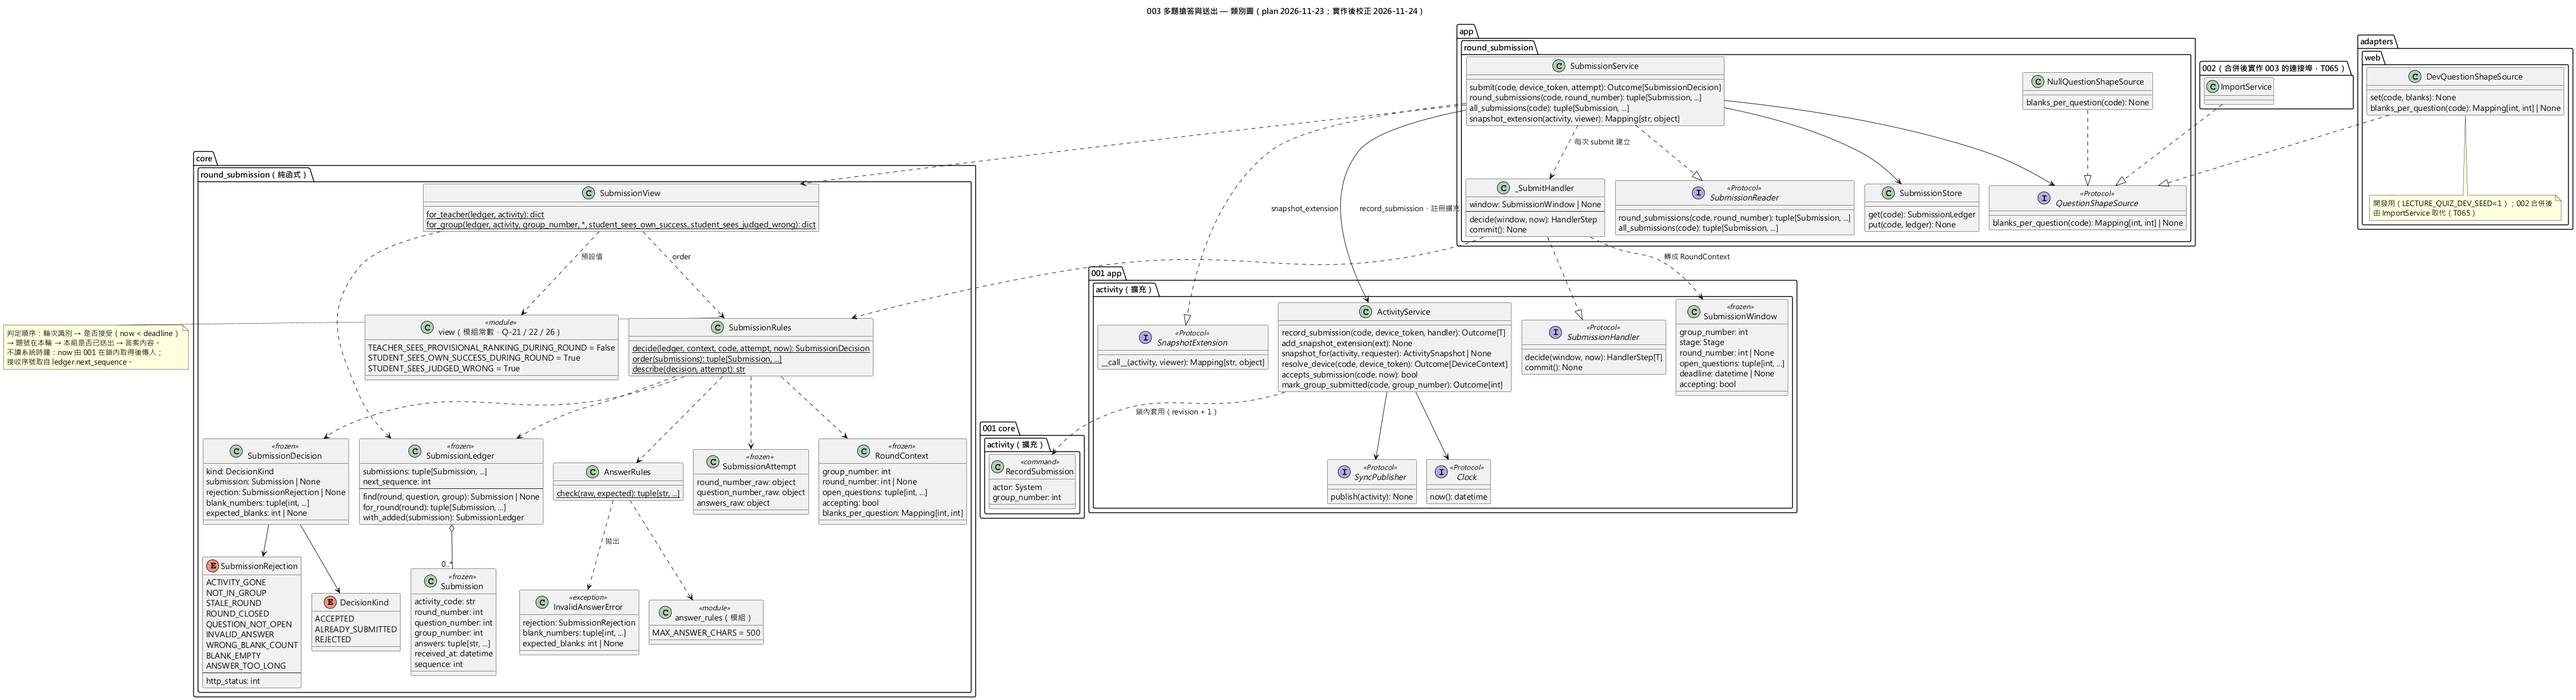
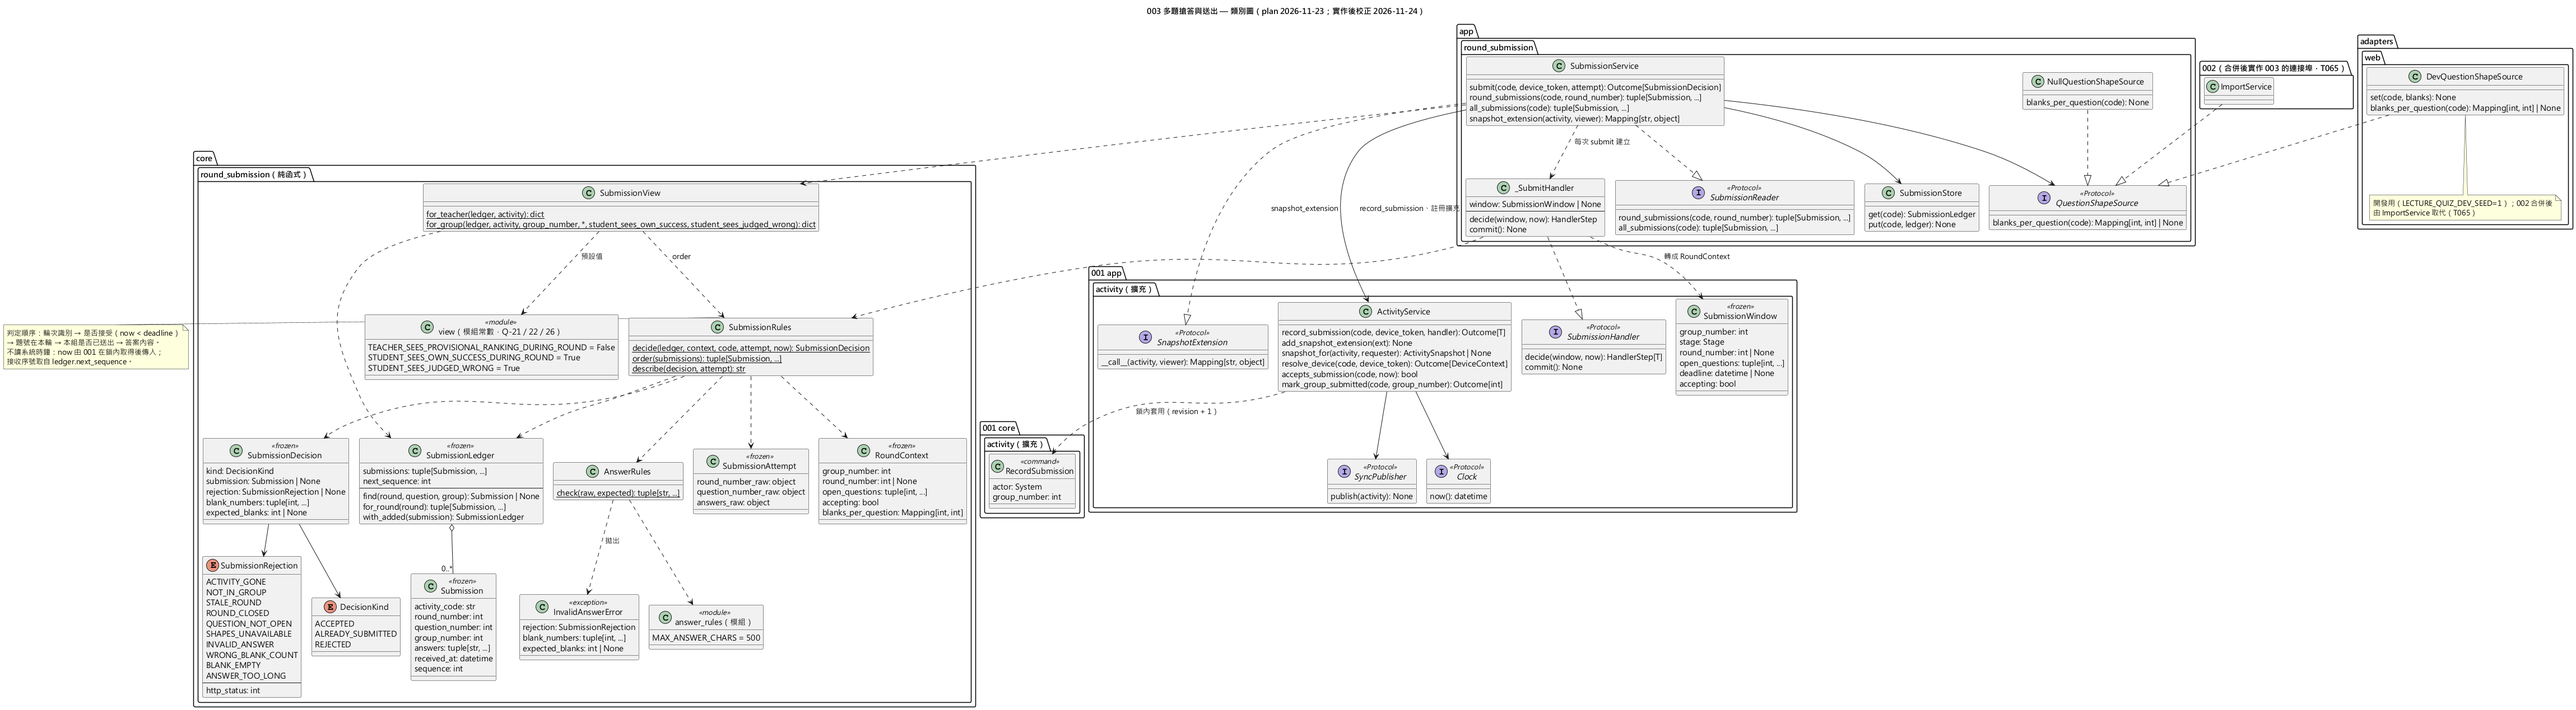
fix: 003 依 PR #16 審查修正學生頁語法錯誤、缺格數訊息與送出狀態
- round-submission.js：submitAnswer 重複宣告 code 造成整支模組不執行，改名 errorCode
  （先前 node --check 對含 import 的 .js 誤回 0；新增以 .mjs 副本檢查的自動測試）
- 缺格數提示每題一則、載入後移除
- 新增 SHAPES_UNAVAILABLE（503、記 WARNING），不再誤報「不在本輪」
- 送出途中截止時不重新啟用已停用的按鈕
- 契約註明 judgedWrong 為 004 前的佔位值、格數來源必須非阻塞
- verification：P-30～P-35

diff --git a/src/lecture_quiz/adapters/static/js/round-submission.js b/src/lecture_quiz/adapters/static/js/round-submission.js
@@ -11,6 +11,7 @@ import { describeSubmitError, el, renderAnswerForm, renderPublished } from "./su
 
 const $ = (id) => document.getElementById(id);
 const forms = new Map(); // key：`${roundNumber}:${questionNumber}`，保留學生已輸入的內容
+const notices = new Map(); // 同一個 key：「格數尚未載入」提示，每題只顯示一則
 let currentRound = null;
 let deadlineTimer = null;
 let scheduledDeadline;
@@ -29,13 +30,13 @@ async function submitAnswer(roundNumber, questionNumber, answers, form) {
     form.showSubmitted(result.data.submission, already ? "本組已送出" : "已送出");
     return;
   }
-  const code = result.error?.code;
-  if (code === "STALE_ROUND") {
+  const errorCode = result.error?.code;
+  if (errorCode === "STALE_ROUND") {
     // 舊頁面：提示並提供重新整理（US3-AS4）
     form.showError(result.error.message, { label: "重新整理", onClick: () => window.location.reload() });
     return;
   }
-  if (code === "ROUND_CLOSED") {
+  if (errorCode === "ROUND_CLOSED") {
     // 已截止或已關輪：停用全部作答表單（US3-AS2、US3-AS3）
     for (const other of forms.values()) if (!other.submitted) other.setDisabled(true);
   }
@@ -84,6 +85,7 @@ function render(snapshot) {
   }
   if (currentRound !== snapshot.roundNumber) {
     forms.clear();
+    notices.clear();
     list.replaceChildren();
     currentRound = snapshot.roundNumber;
   }
@@ -93,8 +95,17 @@ function render(snapshot) {
     if (forms.has(key)) continue;
     const blanks = Number(shapes[String(questionNumber)] ?? 0);
     if (!blanks) {
-      list.append(el("p", `第 ${questionNumber} 題的格數尚未載入，請重新整理。`, "error-message"));
+      // 每次推送都會重畫：提示只建立一次，避免累加（PR #16 審查第 2 項）
+      if (!notices.has(key)) {
+        const notice = el("p", `第 ${questionNumber} 題的格數尚未載入，請稍後或重新整理。`, "error-message");
+        notices.set(key, notice);
+        list.append(notice);
+      }
       continue;
+    }
+    if (notices.has(key)) {
+      notices.get(key).remove();
+      notices.delete(key);
     }
     const roundNumber = snapshot.roundNumber;
     const form = renderAnswerForm({

diff --git a/src/lecture_quiz/adapters/static/js/submission.js b/src/lecture_quiz/adapters/static/js/submission.js
@@ -64,7 +64,11 @@ export function renderAnswerForm({ questionNumber, blanks, onSubmit }) {
     onSubmit(inputs.map((input) => input.value));
   });
 
+  // 已送出或被停用（截止、關輪）後為真；送出中結束時不能把按鈕重新啟用（PR #16 審查第 4 項）
+  let locked = false;
+
   function lock() {
+    locked = true;
     for (const input of inputs) input.disabled = true;
     button.hidden = true;
   }
@@ -72,13 +76,14 @@ export function renderAnswerForm({ questionNumber, blanks, onSubmit }) {
   return {
     element: form,
     setBusy(busy) {
-      button.disabled = busy;
+      button.disabled = busy || locked;
       if (busy) {
         status.textContent = "送出中…";
         status.className = "submit-status";
       }
     },
     setDisabled(disabled) {
+      locked = disabled;
       button.disabled = disabled;
       for (const input of inputs) input.disabled = disabled;
     },

diff --git a/tests/architecture/test_static_text_safety.py b/tests/architecture/test_static_text_safety.py
@@ -10,6 +10,8 @@
 """
 
 import re
+import shutil
+import subprocess
 from pathlib import Path
 
 import pytest
@@ -101,3 +103,42 @@ def test_network_error_is_reported_as_unconfirmed():
     body = source[start:end]
     assert "NETWORK_ERROR" in body
     assert "送出結果未確認，請重試" in body
+
+
+@pytest.mark.parametrize("name", sorted(p.name for p in JS_DIR.glob("*.js")))
+def test_javascript_parses(name, tmp_path):
+    """每支前端模組都能被解析（PR #16 審查第 1 項：重複宣告讓整支模組不執行）。
+
+    以 `.mjs` 副本檢查：Node 22 以後對含 `import` 的 `.js` 執行 `node --check`，
+    即使有語法錯誤也可能回傳 0（模組自動偵測），所以必須明確當成 ES module。
+    """
+    node = shutil.which("node")
+    if node is None:
+        pytest.skip("找不到 node，無法檢查 JavaScript 語法")
+    copy = tmp_path / (Path(name).stem + ".mjs")
+    copy.write_text((JS_DIR / name).read_text(encoding="utf-8"), encoding="utf-8")
+    result = subprocess.run(
+        [node, "--check", str(copy)],
+        capture_output=True,
+        text=True,
+        encoding="utf-8",
+        check=False,
+    )
+    assert result.returncode == 0, result.stderr
+
+
+def test_busy_state_does_not_reenable_locked_form():
+    """PR #16 審查第 4 項：送出途中倒數歸零，送出結束後按鈕仍維持停用。"""
+    source = _source("submission.js")
+    start, end = _function(source, "setBusy")
+    body = source[start:end]
+    assert "button.disabled = busy;" not in body
+    assert "locked" in body
+
+
+def test_missing_shape_notice_is_not_duplicated():
+    """PR #16 審查第 2 項：缺格數的提示每題只有一則，格數載入後移除。"""
+    source = _source("round-submission.js")
+    start, end = _function(source, "render")
+    body = source[start:end]
+    assert "notices.has(key)" in body and "notices.delete(key)" in body

diff --git a/src/lecture_quiz/core/round_submission/rules.py b/src/lecture_quiz/core/round_submission/rules.py
@@ -80,13 +80,13 @@ class SubmissionRules:
         if not context.accepting:
             return _reject(SubmissionRejection.ROUND_CLOSED)
         question = attempt.question_number_raw
-        if (
-            not _is_int(question)
-            or question not in context.open_questions
-            or question not in context.blanks_per_question
-        ):
+        # 步驟 3：題號在本輪開放；開放題查不到格數另回 SHAPES_UNAVAILABLE（PR #16 審查）
+        if not _is_int(question) or question not in context.open_questions:
             return _reject(SubmissionRejection.QUESTION_NOT_OPEN)
         assert isinstance(question, int)
+        if question not in context.blanks_per_question:
+            # 開放題卻查不到格數：尚未匯入或 002／001 資料不一致，不是學生的錯
+            return _reject(SubmissionRejection.SHAPES_UNAVAILABLE)
         # 步驟 4：本組本輪本題已有提交時一律回本組已送出，不看內容（FR-007、FR-009）
         existing = ledger.find(context.round_number, question, context.group_number)
         if existing is not None:
@@ -159,4 +159,7 @@ _MESSAGES = {
     SubmissionRejection.STALE_ROUND: "輪次已更新，請重新整理後再作答。",
     SubmissionRejection.ROUND_CLOSED: "本輪已結束（或尚未開始），不能再送出。",
     SubmissionRejection.INVALID_ANSWER: "答案格式不正確，請重新整理後再作答。",
+    SubmissionRejection.SHAPES_UNAVAILABLE: (
+        "這一題的格數尚未載入，暫時無法送出；請稍後再試，或請老師確認已匯入學習單。"
+    ),
 }

diff --git a/tests/unit/core/round_submission/test_decide_us1.py b/tests/unit/core/round_submission/test_decide_us1.py
@@ -59,13 +59,22 @@ def test_question_not_open_or_unknown():
         assert decision.submission is None
 
 
-def test_open_question_without_shape_is_not_open():
-    decision = _decide(
-        SubmissionLedger(),
-        make_attempt(5, ("戊",)),
-        open_questions=(1, 5),
-    )
-    assert decision.rejection is SubmissionRejection.QUESTION_NOT_OPEN
+def test_open_question_without_shape_reports_shapes_unavailable():
+    """開放題查不到格數時不能說「不在本輪」（PR #16 審查第 3 項）。
+
+    例如尚未匯入，或 002 與 001 的題目資料不一致。
+    """
+    for blanks in ({1: 2}, {}):
+        attempt = make_attempt(5, ("戊",))
+        decision = _decide(
+            SubmissionLedger(), attempt, open_questions=(1, 5), blanks=blanks
+        )
+        assert decision.rejection is SubmissionRejection.SHAPES_UNAVAILABLE
+        assert SubmissionRejection.SHAPES_UNAVAILABLE.http_status == 503
+        message = SubmissionRules.describe(decision, attempt)
+        assert "格數尚未載入" in message and "不在本輪" not in message
+    not_open = _decide(SubmissionLedger(), make_attempt(9, ("戊",)), blanks={})
+    assert not_open.rejection is SubmissionRejection.QUESTION_NOT_OPEN
 
 
 def test_rejected_attempt_does_not_consume_chance():

diff --git a/tests/contract/test_http_submissions.py b/tests/contract/test_http_submissions.py
@@ -163,3 +163,24 @@ def test_stale_round_and_closed_are_409(client, opened):
     assert closed.json()["error"]["code"] == "ROUND_CLOSED"
     assert "本輪已結束" in closed.json()["error"]["message"]
     _assert_safe(closed, devices[1], teacher.token)
+
+
+def test_missing_shapes_return_503_not_question_not_open(client):
+    """沒有格數資料時回 503 SHAPES_UNAVAILABLE（PR #16 審查第 3 項）。
+
+    例如尚未匯入，或 002 的格數來源尚未接上。
+    """
+    teacher = create_activity(client)
+    seed_questions(client, teacher, 4)  # 只有題號、沒有格數
+    client.post(
+        f"/api/activities/{teacher.code}/open-joining", json={}, headers=teacher.headers
+    )
+    device = join_group(client, teacher.code, 1)
+    client.post(
+        f"/api/activities/{teacher.code}/rounds", json={}, headers=teacher.headers
+    )
+    response = submit(client, teacher.code, device, 1, 1, ["甲"])
+    assert response.status_code == 503
+    error = response.json()["error"]
+    assert error["code"] == "SHAPES_UNAVAILABLE"
+    assert "格數尚未載入" in error["message"]

diff --git a/src/lecture_quiz/core/round_submission/models.py b/src/lecture_quiz/core/round_submission/models.py
@@ -150,6 +150,7 @@ class SubmissionRejection(StrEnum):
     STALE_ROUND = "STALE_ROUND"
     ROUND_CLOSED = "ROUND_CLOSED"
     QUESTION_NOT_OPEN = "QUESTION_NOT_OPEN"
+    SHAPES_UNAVAILABLE = "SHAPES_UNAVAILABLE"
     INVALID_ANSWER = "INVALID_ANSWER"
     WRONG_BLANK_COUNT = "WRONG_BLANK_COUNT"
     BLANK_EMPTY = "BLANK_EMPTY"
@@ -167,6 +168,7 @@ _HTTP_STATUS = {
     SubmissionRejection.STALE_ROUND: 409,
     SubmissionRejection.ROUND_CLOSED: 409,
     SubmissionRejection.QUESTION_NOT_OPEN: 400,
+    SubmissionRejection.SHAPES_UNAVAILABLE: 503,
     SubmissionRejection.INVALID_ANSWER: 400,
     SubmissionRejection.WRONG_BLANK_COUNT: 400,
     SubmissionRejection.BLANK_EMPTY: 400,

diff --git a/src/lecture_quiz/app/round_submission/service.py b/src/lecture_quiz/app/round_submission/service.py
@@ -194,7 +194,13 @@ class SubmissionService:
             if isinstance(raw, int) and not isinstance(raw, bool) and 0 < raw < 10000
             else "-"
         )
-        logger.info(
+        # 開放題查不到格數代表 002／001 資料不一致或尚未接上格數來源（研究 R6）
+        log = (
+            logger.warning
+            if decision.rejection is SubmissionRejection.SHAPES_UNAVAILABLE
+            else logger.info
+        )
+        log(
             "提交 activity=%s round=%s question=%s group=%s result=%s",
             code,
             window.round_number if window and window.round_number else "-",

diff --git a/specs/003-round-submission/verification.md b/specs/003-round-submission/verification.md
@@ -146,6 +146,29 @@
 - T064：非實作者 EricC430 依 quickstart 人工驗證。
 - T065：002 合併後的真實路徑驗證（P-19）。
 
+## PR #16 審查修正（2026-11-24，EricC430 審查）
+
+- **先寫測試並確認失敗**：新增的 6 個測試在修正前 5 個失敗。
+  - `round-submission.js` 語法檢查
+  - 送出中不重新啟用已鎖定的按鈕
+  - 缺格數提示不重複
+  - 核心判定 `SHAPES_UNAVAILABLE`
+  - HTTP 503
+- **修正**：
+  - `round-submission.js` 的重複宣告改名為 `errorCode`（P-30）。
+  - 缺格數提示改為每題一則，格數載入後移除（P-31）。
+  - 新增 `SHAPES_UNAVAILABLE`，回 503 並記 WARNING（P-32）。
+  - 表單送出中結束時，若已截止或已送出就不重新啟用（P-33）。
+  - `judgedWrong` 佔位值寫進同步契約（P-34）。
+  - 格數來源必須非阻塞，`None` 與缺題的處理寫進研究 R6 與契約（P-35）。
+- **新增自動檢查**：`tests/architecture/test_static_text_safety.py::test_javascript_parses` 以 `.mjs` 副本對每支前端模組執行 `node --check`。
+
+| 指令 | 結果 |
+|---|---|
+| `ruff check --no-cache .`、`ruff format --check --no-cache .` | All checks passed! |
+| `mypy` | Success: no issues found in 36 source files |
+| `pytest` | **547 passed**, 2 deselected |
+
 ## 實作問題紀錄
 
 實作 003 過程中發現的問題、偏離與待辦，依發現順序編號。狀態：**已處理**（已改程式或文件）、**已記錄**（行為不變，只需知道）、**待辦**（之後的任務要處理）、**待決定**（需要組員或 OpenSpec 組決定）。
@@ -180,3 +203,9 @@
 | P-27 | Polish | spec SC-001、plan、tasks T059 寫「13 個 OpenSpec Scenario」，實際是 14 個 | T059 掃描時更正三處；SCENARIO_MAP 列出全部 14 個 | 已處理 |
 | P-28 | Polish | 被拒的提交日誌記 `round=-`、`group=-`，查問題時看不出是哪一組（T057 要求要有） | 改為從 001 鎖內的 `SubmissionWindow` 取得；活動不存在或不屬於任何組時仍為 `-` | 已處理 |
 | P-29 | 跨 PR | PR #19（001 修正）與本 PR 都改了 `tests/SCENARIO_MAP.md`；PR #17（002）刪除 dev seed，與本 PR 有 6 個檔案衝突 | #19 已合併，本分支已併入最新 main（無衝突，535 passed）；#17 的衝突待其修改後處理，dev seed 去留與格數來源已在 #17 審查提出 | 待辦（#17）|
+| P-30 | US3～US6 | **學生頁模組載入即 SyntaxError**：`submitAnswer` 內重複宣告 `const code`（US3 加入），整支 `round-submission.js` 不執行，作答表單與已公開作答都不出現。先前各階段寫的「`node --check` 通過」**不正確**：Node 24 對含 `import` 的 `.js` 執行 `node --check` 會回傳 0（模組自動偵測），沒有真的檢查出錯誤 | 改名為 `errorCode`；新增自動測試以 `.mjs` 副本檢查每支前端模組。前端仍須以瀏覽器人工驗證（P-09） | 已處理 |
+| P-31 | US1 | 缺格數時「格數尚未載入」提示在每次推送都多加一則，格數載入後也不清除 | 每題一則（`notices`），格數載入後移除 | 已處理 |
+| P-32 | US1 | 沒有格數資料時所有提交回 `QUESTION_NOT_OPEN`「不在本輪開放範圍」，會誤導學生；研究 R6 寫的 WARNING 日誌沒有實作 | 新增 `SHAPES_UNAVAILABLE`（503）與 WARNING；data-model、契約、類別圖同步 | 已處理 |
+| P-33 | US6 | 送出途中倒數歸零，`setBusy(false)` 會把已停用的按鈕重新啟用 | 表單記住 `locked`，已停用或已送出時不重新啟用 | 已處理 |
+| P-34 | US5 | `judgedWrong` 在 004 接上前一律為 `false`，契約沒有寫明是佔位值 | 寫進 `contracts/sync-websocket.md`；004 接上後提供真值 | 已處理 |
+| P-35 | Foundational | `blanks_per_question` 在 001 活動鎖內呼叫，實作若有 I/O 或其他鎖可能阻塞或死結；`None` 與空對應表沒有區分 | 研究 R6 與 service-interfaces 寫明必須非阻塞；兩者都回 `SHAPES_UNAVAILABLE` | 已處理 |

diff --git a/specs/003-round-submission/research.md b/specs/003-round-submission/research.md
@@ -51,7 +51,8 @@ Technical Context 沒有 NEEDS CLARIFICATION；以下是設計決策。每項格
 - **決策**：003 定義 `QuestionShapeSource` Protocol：`blanks_per_question(code) -> Mapping[int, int] | None`（題號 → 格數；尚未成功匯入時為 `None`）。由 002 的 `ImportService` 實作（`ImportRecord.blanks` 依題號計數；已與 EricC430 口頭協調）。002 合併前：`dev_seed` 的 seed 可指定每題格數，並提供 `DevQuestionShapeSource`；只在 dev seed 啟用時組裝；seed 的 `blanks` 長度必須等於題數、每題 1～10 格（只是開發用的防呆上限，不是正式規則）。
 - **理由**：格數一律來自匯入結果（憲章原則 III）；重新匯入只在第一輪前，搶答中格數不變。
 - **替代方案**：001 的 `replace_questions` 改傳格數（改動 001 與 002 已對齊的契約，否決）；003 直接讀 002 的 `ImportRecord`（耦合 002 內部型別，否決）。
-- **防禦**：開放題在 `QuestionShapeSource` 查不到格數時，`decide` 回 `QUESTION_NOT_OPEN` 並記錄 WARNING（不應發生，代表 002／001 資料不一致）。
+- **防禦**：開放題在 `QuestionShapeSource` 查不到格數時，`decide` 回 `SHAPES_UNAVAILABLE`（503）並記錄 WARNING（不應發生，代表尚未接上格數來源或 002／001 資料不一致）。原本回 `QUESTION_NOT_OPEN`，訊息「不在本輪開放範圍」會誤導學生，2026-11-24 依 PR #16 審查改為獨立原因。
+- **非阻塞**：`blanks_per_question` 在 001 的活動鎖內被呼叫，實作 MUST 是不做 I/O、不取得其他鎖的純讀取（002 的 `ImportService` 只讀記憶體中的 `ImportRecord`）。回傳 `None` 表示該活動沒有格數資料；回傳的對應表缺少某個開放題，同樣視為查不到格數。
 
 ## R7 HTTP API 形狀
 

diff --git a/specs/003-round-submission/spec.md b/specs/003-round-submission/spec.md
@@ -201,6 +201,7 @@
 - **答案極長、含換行或前後空白**（Q-20，OpenSpec 組已確認 2026-11-23）：任一格超過 500 字時整筆拒絕並說明「第 n 格超過 500 字」，不消耗機會；換行允許；首尾空白只用來判斷是否為空，保存與顯示都用原文。字數以字元計（中文一字算一字）。
 - **重送與網路重試**：同一請求重送不得產生重複提交（US2-AS2）；不同裝置的後續送出也不得覆蓋（US2-AS1）。
 - **輸入驗證失敗時（憲章原則 V）**：題號、輪次識別、答案格數、空白格、答案型別（非文字）等不合法時，整筆拒絕，不保存任何一格、不消耗機會、不改變任何狀態版本；錯誤訊息指出可修正的原因（哪一格未填、這題需要幾格、該題不在本輪、輪次已更新請重新整理、本輪已結束），且不包含堆疊追蹤、檔案路徑、token、憑證或他組資料。
+- **開放題查不到格數**（尚未匯入，或格數來源尚未接上）：整筆拒絕並說明「這一題的格數尚未載入，暫時無法送出」，不說成「不在本輪」；不保存、不消耗機會（2026-11-24 PR #16 審查）。
 - **兩份版面學習單（憲章原則 III）**：子空格數一律依 002 的成功匯入結果，不假設固定格數或固定題數；以兩份版面不同的學習單（例如題組格數不同、起始列欄不同）匯入後，提交的格數檢查都依各自的匯入結果正確運作。
 
 ## Requirements *(mandatory)*

diff --git a/specs/003-round-submission/data-model.md b/specs/003-round-submission/data-model.md
@@ -32,7 +32,8 @@
 | 1 | 目前還沒有任何輪次（準備中、開放加入） | `ROUND_CLOSED` | 409 | 本輪尚未開始或已結束 |
 | 1b | `round_number_raw` 不是整數，或 ≠ 目前輪次編號 | `STALE_ROUND` | 409 | 輪次已更新，請重新整理後再作答 |
 | 2 | `accepting` 為假 | `ROUND_CLOSED` | 409 | 本輪已結束（或尚未開始），不能再送出 |
-| 3 | 題號不是整數或不在 `open_questions`，或查不到格數 | `QUESTION_NOT_OPEN` | 400 | 第 n 題不在本輪開放範圍 |
+| 3 | 題號不是整數或不在 `open_questions` | `QUESTION_NOT_OPEN` | 400 | 第 n 題不在本輪開放範圍 |
+| 3b | 開放題查不到格數（尚未匯入、002 格數來源未接上，或資料不一致） | `SHAPES_UNAVAILABLE` | 503 | 這一題的格數尚未載入，暫時無法送出（2026-11-24 PR #16 審查新增；記 WARNING） |
 | 4 | 本組本輪本題已有提交 | `ALREADY_SUBMITTED` | 200 | 本組已送出（附既有答案與時間） |
 | 5a | `answers_raw` 不是字串陣列 | `INVALID_ANSWER` | 400 | 答案格式不正確，請重新整理後再作答 |
 | 5b | 格數 ≠ 該題格數 | `WRONG_BLANK_COUNT` | 400 | 這題需要 k 格答案 |
